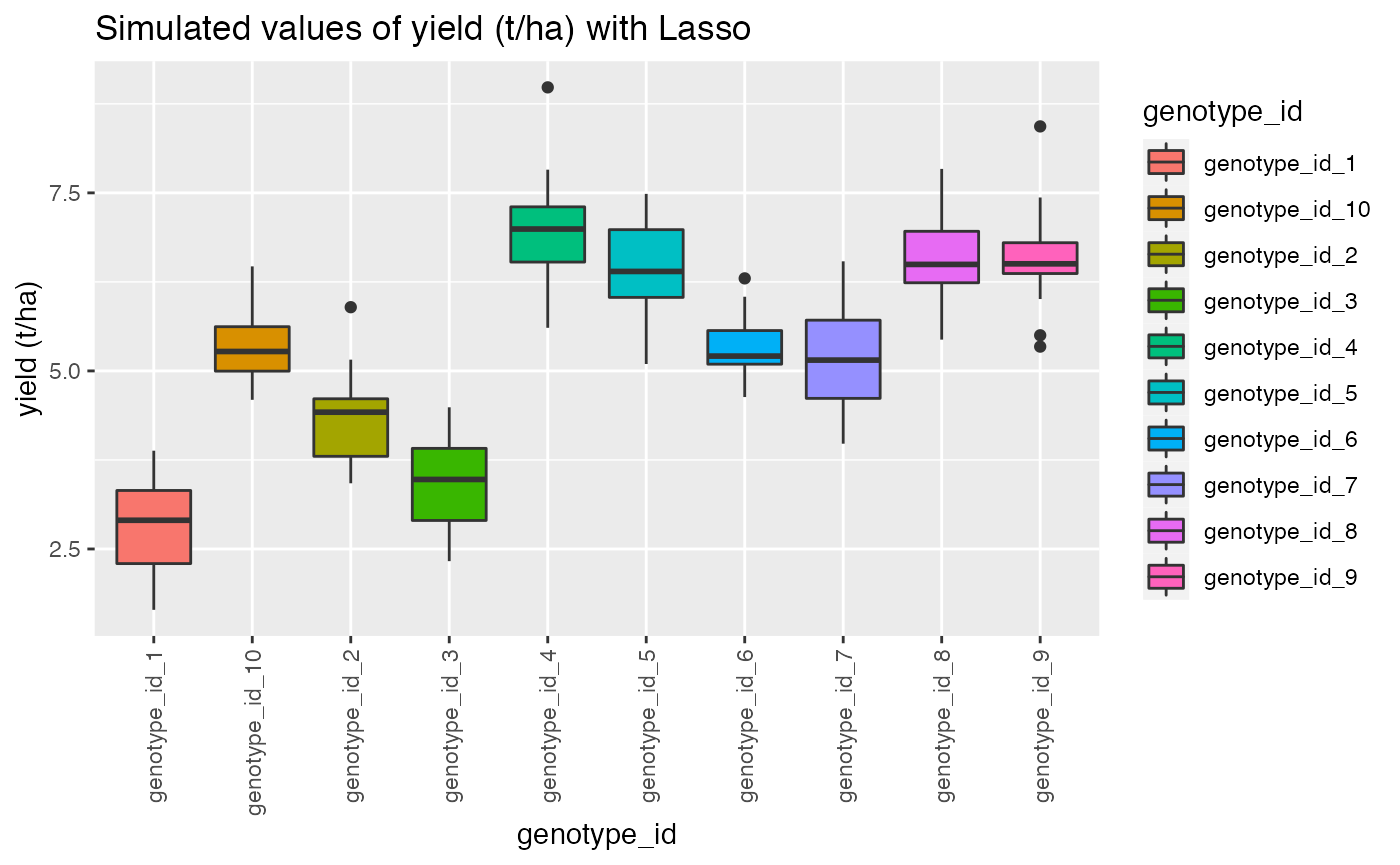
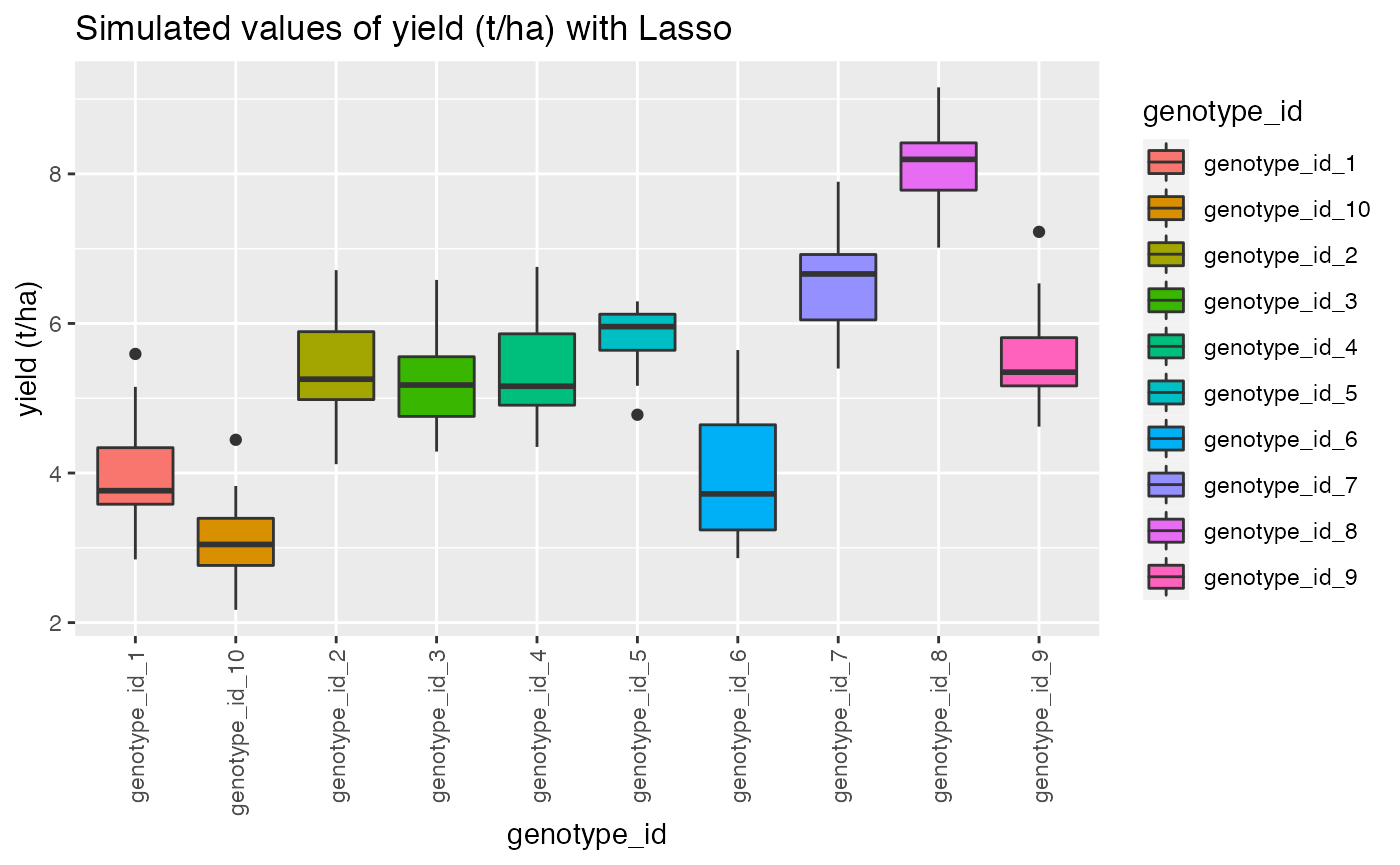
commiting .md

diff --git a/docs/reference/module_coords.html b/docs/reference/module_coords.html
@@ -109,166 +109,166 @@
 <span class="r-out co"><span class="r-pr">#&gt;</span>    i j pos_neg coord_ij   distance       lower     diag        upper</span>
 <span class="r-out co"><span class="r-pr">#&gt;</span> 1  1 1     pos      1_1  1.5707960 non_low_tri     diag non_uper_tri</span>
 <span class="r-out co"><span class="r-pr">#&gt;</span> 2  2 1     neg      2_1 -0.9300003     low_tri non_diag non_uper_tri</span>
-<span class="r-out co"><span class="r-pr">#&gt;</span> 3  3 1     pos      3_1  0.1280000     low_tri non_diag non_uper_tri</span>
-<span class="r-out co"><span class="r-pr">#&gt;</span> 4  4 1     pos      4_1  0.7170000     low_tri non_diag non_uper_tri</span>
-<span class="r-out co"><span class="r-pr">#&gt;</span> 5  5 1     pos      5_1  1.3800000     low_tri non_diag non_uper_tri</span>
-<span class="r-out co"><span class="r-pr">#&gt;</span> 6  6 1     neg      6_1  4.6625927     low_tri non_diag non_uper_tri</span>
-<span class="r-out co"><span class="r-pr">#&gt;</span> 7  7 1     pos      7_1  0.4460000     low_tri non_diag non_uper_tri</span>
-<span class="r-out co"><span class="r-pr">#&gt;</span> 8  8 1     pos      8_1  0.7140000     low_tri non_diag non_uper_tri</span>
+<span class="r-out co"><span class="r-pr">#&gt;</span> 3  3 1     pos      3_1  1.0680000     low_tri non_diag non_uper_tri</span>
+<span class="r-out co"><span class="r-pr">#&gt;</span> 4  4 1     pos      4_1  0.5490000     low_tri non_diag non_uper_tri</span>
+<span class="r-out co"><span class="r-pr">#&gt;</span> 5  5 1     pos      5_1  0.0680000     low_tri non_diag non_uper_tri</span>
+<span class="r-out co"><span class="r-pr">#&gt;</span> 6  6 1     neg      6_1  4.2845927     low_tri non_diag non_uper_tri</span>
+<span class="r-out co"><span class="r-pr">#&gt;</span> 7  7 1     pos      7_1  0.3640000     low_tri non_diag non_uper_tri</span>
+<span class="r-out co"><span class="r-pr">#&gt;</span> 8  8 1     pos      8_1  0.4470000     low_tri non_diag non_uper_tri</span>
 <span class="r-out co"><span class="r-pr">#&gt;</span> 9  9 1     neg      9_1 -0.8684074     low_tri non_diag non_uper_tri</span>
 <span class="r-out co"><span class="r-pr">#&gt;</span> 10 1 2     neg      1_2 -0.9300003 non_low_tri non_diag     uper_tri</span>
 <span class="r-out co"><span class="r-pr">#&gt;</span> 11 2 2     pos      2_2  1.5707960 non_low_tri     diag non_uper_tri</span>
-<span class="r-out co"><span class="r-pr">#&gt;</span> 12 3 2     neg      3_2  4.1605927     low_tri non_diag non_uper_tri</span>
-<span class="r-out co"><span class="r-pr">#&gt;</span> 13 4 2     pos      4_2  1.4410000     low_tri non_diag non_uper_tri</span>
-<span class="r-out co"><span class="r-pr">#&gt;</span> 14 5 2     pos      5_2  0.6580000     low_tri non_diag non_uper_tri</span>
+<span class="r-out co"><span class="r-pr">#&gt;</span> 12 3 2     neg      3_2  4.1395927     low_tri non_diag non_uper_tri</span>
+<span class="r-out co"><span class="r-pr">#&gt;</span> 13 4 2     pos      4_2  1.3250000     low_tri non_diag non_uper_tri</span>
+<span class="r-out co"><span class="r-pr">#&gt;</span> 14 5 2     pos      5_2  1.2370000     low_tri non_diag non_uper_tri</span>
 <span class="r-out co"><span class="r-pr">#&gt;</span> 15 6 2     neg      6_2 -0.9310004     low_tri non_diag non_uper_tri</span>
-<span class="r-out co"><span class="r-pr">#&gt;</span> 16 7 2     pos      7_2  0.5360000     low_tri non_diag non_uper_tri</span>
-<span class="r-out co"><span class="r-pr">#&gt;</span> 17 8 2     pos      8_2  1.5450000     low_tri non_diag non_uper_tri</span>
-<span class="r-out co"><span class="r-pr">#&gt;</span> 18 9 2     pos      9_2  1.3490000     low_tri non_diag non_uper_tri</span>
-<span class="r-out co"><span class="r-pr">#&gt;</span> 19 1 3     pos      1_3  0.1280000 non_low_tri non_diag     uper_tri</span>
-<span class="r-out co"><span class="r-pr">#&gt;</span> 20 2 3     neg      2_3  4.1605927 non_low_tri non_diag     uper_tri</span>
+<span class="r-out co"><span class="r-pr">#&gt;</span> 16 7 2     pos      7_2  1.5480000     low_tri non_diag non_uper_tri</span>
+<span class="r-out co"><span class="r-pr">#&gt;</span> 17 8 2     pos      8_2  0.7150000     low_tri non_diag non_uper_tri</span>
+<span class="r-out co"><span class="r-pr">#&gt;</span> 18 9 2     pos      9_2  0.2490000     low_tri non_diag non_uper_tri</span>
+<span class="r-out co"><span class="r-pr">#&gt;</span> 19 1 3     pos      1_3  1.0680000 non_low_tri non_diag     uper_tri</span>
+<span class="r-out co"><span class="r-pr">#&gt;</span> 20 2 3     neg      2_3  4.1395927 non_low_tri non_diag     uper_tri</span>
 <span class="r-out co"><span class="r-pr">#&gt;</span> 21 3 3     pos      3_3  1.5707960 non_low_tri     diag non_uper_tri</span>
-<span class="r-out co"><span class="r-pr">#&gt;</span> 22 4 3     pos      4_3  0.5720000     low_tri non_diag non_uper_tri</span>
-<span class="r-out co"><span class="r-pr">#&gt;</span> 23 5 3     pos      5_3  0.7990000     low_tri non_diag non_uper_tri</span>
-<span class="r-out co"><span class="r-pr">#&gt;</span> 24 6 3     pos      6_3  0.4930000     low_tri non_diag non_uper_tri</span>
-<span class="r-out co"><span class="r-pr">#&gt;</span> 25 7 3     pos      7_3  0.5200000     low_tri non_diag non_uper_tri</span>
-<span class="r-out co"><span class="r-pr">#&gt;</span> 26 8 3     pos      8_3  0.0530000     low_tri non_diag non_uper_tri</span>
+<span class="r-out co"><span class="r-pr">#&gt;</span> 22 4 3     pos      4_3  0.7820000     low_tri non_diag non_uper_tri</span>
+<span class="r-out co"><span class="r-pr">#&gt;</span> 23 5 3     pos      5_3  0.7250000     low_tri non_diag non_uper_tri</span>
+<span class="r-out co"><span class="r-pr">#&gt;</span> 24 6 3     pos      6_3  0.7210000     low_tri non_diag non_uper_tri</span>
+<span class="r-out co"><span class="r-pr">#&gt;</span> 25 7 3     pos      7_3  0.3020000     low_tri non_diag non_uper_tri</span>
+<span class="r-out co"><span class="r-pr">#&gt;</span> 26 8 3     pos      8_3  0.1190000     low_tri non_diag non_uper_tri</span>
 <span class="r-out co"><span class="r-pr">#&gt;</span> 27 9 3     pos      9_3  0.5235988     low_tri non_diag non_uper_tri</span>
-<span class="r-out co"><span class="r-pr">#&gt;</span> 28 1 4     pos      1_4  0.7170000 non_low_tri non_diag     uper_tri</span>
-<span class="r-out co"><span class="r-pr">#&gt;</span> 29 2 4     pos      2_4  1.4410000 non_low_tri non_diag     uper_tri</span>
-<span class="r-out co"><span class="r-pr">#&gt;</span> 30 3 4     pos      3_4  0.5720000 non_low_tri non_diag     uper_tri</span>
+<span class="r-out co"><span class="r-pr">#&gt;</span> 28 1 4     pos      1_4  0.5490000 non_low_tri non_diag     uper_tri</span>
+<span class="r-out co"><span class="r-pr">#&gt;</span> 29 2 4     pos      2_4  1.3250000 non_low_tri non_diag     uper_tri</span>
+<span class="r-out co"><span class="r-pr">#&gt;</span> 30 3 4     pos      3_4  0.7820000 non_low_tri non_diag     uper_tri</span>
 <span class="r-out co"><span class="r-pr">#&gt;</span> 31 4 4     pos      4_4  1.5707960 non_low_tri     diag non_uper_tri</span>
 <span class="r-out co"><span class="r-pr">#&gt;</span> 32 5 4     pos      5_4  0.6435011     low_tri non_diag non_uper_tri</span>
-<span class="r-out co"><span class="r-pr">#&gt;</span> 33 6 4     pos      6_4  1.5240000     low_tri non_diag non_uper_tri</span>
-<span class="r-out co"><span class="r-pr">#&gt;</span> 34 7 4     pos      7_4  0.8940000     low_tri non_diag non_uper_tri</span>
-<span class="r-out co"><span class="r-pr">#&gt;</span> 35 8 4     pos      8_4  0.2000000     low_tri non_diag non_uper_tri</span>
-<span class="r-out co"><span class="r-pr">#&gt;</span> 36 9 4     pos      9_4  0.3660000     low_tri non_diag non_uper_tri</span>
-<span class="r-out co"><span class="r-pr">#&gt;</span> 37 1 5     pos      1_5  1.3800000 non_low_tri non_diag     uper_tri</span>
-<span class="r-out co"><span class="r-pr">#&gt;</span> 38 2 5     pos      2_5  0.6580000 non_low_tri non_diag     uper_tri</span>
-<span class="r-out co"><span class="r-pr">#&gt;</span> 39 3 5     pos      3_5  0.7990000 non_low_tri non_diag     uper_tri</span>
+<span class="r-out co"><span class="r-pr">#&gt;</span> 33 6 4     pos      6_4  1.4930000     low_tri non_diag non_uper_tri</span>
+<span class="r-out co"><span class="r-pr">#&gt;</span> 34 7 4     pos      7_4  0.8010000     low_tri non_diag non_uper_tri</span>
+<span class="r-out co"><span class="r-pr">#&gt;</span> 35 8 4     pos      8_4  0.6320000     low_tri non_diag non_uper_tri</span>
+<span class="r-out co"><span class="r-pr">#&gt;</span> 36 9 4     pos      9_4  1.5230000     low_tri non_diag non_uper_tri</span>
+<span class="r-out co"><span class="r-pr">#&gt;</span> 37 1 5     pos      1_5  0.0680000 non_low_tri non_diag     uper_tri</span>
+<span class="r-out co"><span class="r-pr">#&gt;</span> 38 2 5     pos      2_5  1.2370000 non_low_tri non_diag     uper_tri</span>
+<span class="r-out co"><span class="r-pr">#&gt;</span> 39 3 5     pos      3_5  0.7250000 non_low_tri non_diag     uper_tri</span>
 <span class="r-out co"><span class="r-pr">#&gt;</span> 40 4 5     pos      4_5  0.6435011 non_low_tri non_diag     uper_tri</span>
 <span class="r-out co"><span class="r-pr">#&gt;</span> 41 5 5     pos      5_5  1.5707960 non_low_tri     diag non_uper_tri</span>
-<span class="r-out co"><span class="r-pr">#&gt;</span> 42 6 5     pos      6_5  0.4420000     low_tri non_diag non_uper_tri</span>
-<span class="r-out co"><span class="r-pr">#&gt;</span> 43 7 5     pos      7_5  1.4290000     low_tri non_diag non_uper_tri</span>
-<span class="r-out co"><span class="r-pr">#&gt;</span> 44 8 5     pos      8_5  1.1430000     low_tri non_diag non_uper_tri</span>
-<span class="r-out co"><span class="r-pr">#&gt;</span> 45 9 5     pos      9_5  0.3120000     low_tri non_diag non_uper_tri</span>
-<span class="r-out co"><span class="r-pr">#&gt;</span> 46 1 6     neg      1_6  4.6625927 non_low_tri non_diag     uper_tri</span>
+<span class="r-out co"><span class="r-pr">#&gt;</span> 42 6 5     pos      6_5  0.6840000     low_tri non_diag non_uper_tri</span>
+<span class="r-out co"><span class="r-pr">#&gt;</span> 43 7 5     pos      7_5  0.1620000     low_tri non_diag non_uper_tri</span>
+<span class="r-out co"><span class="r-pr">#&gt;</span> 44 8 5     pos      8_5  0.6780000     low_tri non_diag non_uper_tri</span>
+<span class="r-out co"><span class="r-pr">#&gt;</span> 45 9 5     pos      9_5  1.5460000     low_tri non_diag non_uper_tri</span>
+<span class="r-out co"><span class="r-pr">#&gt;</span> 46 1 6     neg      1_6  4.2845927 non_low_tri non_diag     uper_tri</span>
 <span class="r-out co"><span class="r-pr">#&gt;</span> 47 2 6     neg      2_6 -0.9310004 non_low_tri non_diag     uper_tri</span>
-<span class="r-out co"><span class="r-pr">#&gt;</span> 48 3 6     pos      3_6  0.4930000 non_low_tri non_diag     uper_tri</span>
-<span class="r-out co"><span class="r-pr">#&gt;</span> 49 4 6     pos      4_6  1.5240000 non_low_tri non_diag     uper_tri</span>
-<span class="r-out co"><span class="r-pr">#&gt;</span> 50 5 6     pos      5_6  0.4420000 non_low_tri non_diag     uper_tri</span>
+<span class="r-out co"><span class="r-pr">#&gt;</span> 48 3 6     pos      3_6  0.7210000 non_low_tri non_diag     uper_tri</span>
+<span class="r-out co"><span class="r-pr">#&gt;</span> 49 4 6     pos      4_6  1.4930000 non_low_tri non_diag     uper_tri</span>
+<span class="r-out co"><span class="r-pr">#&gt;</span> 50 5 6     pos      5_6  0.6840000 non_low_tri non_diag     uper_tri</span>
 <span class="r-out co"><span class="r-pr">#&gt;</span> 51 6 6     pos      6_6  1.5707960 non_low_tri     diag non_uper_tri</span>
-<span class="r-out co"><span class="r-pr">#&gt;</span> 52 7 6     pos      7_6  0.1440000     low_tri non_diag non_uper_tri</span>
+<span class="r-out co"><span class="r-pr">#&gt;</span> 52 7 6     pos      7_6  1.2820000     low_tri non_diag non_uper_tri</span>
 <span class="r-out co"><span class="r-pr">#&gt;</span> 53 8 6     pos      8_6  1.1197695     low_tri non_diag non_uper_tri</span>
-<span class="r-out co"><span class="r-pr">#&gt;</span> 54 9 6     pos      9_6  0.6420000     low_tri non_diag non_uper_tri</span>
-<span class="r-out co"><span class="r-pr">#&gt;</span> 55 1 7     pos      1_7  0.4460000 non_low_tri non_diag     uper_tri</span>
-<span class="r-out co"><span class="r-pr">#&gt;</span> 56 2 7     pos      2_7  0.5360000 non_low_tri non_diag     uper_tri</span>
-<span class="r-out co"><span class="r-pr">#&gt;</span> 57 3 7     pos      3_7  0.5200000 non_low_tri non_diag     uper_tri</span>
-<span class="r-out co"><span class="r-pr">#&gt;</span> 58 4 7     pos      4_7  0.8940000 non_low_tri non_diag     uper_tri</span>
-<span class="r-out co"><span class="r-pr">#&gt;</span> 59 5 7     pos      5_7  1.4290000 non_low_tri non_diag     uper_tri</span>
-<span class="r-out co"><span class="r-pr">#&gt;</span> 60 6 7     pos      6_7  0.1440000 non_low_tri non_diag     uper_tri</span>
+<span class="r-out co"><span class="r-pr">#&gt;</span> 54 9 6     pos      9_6  0.6640000     low_tri non_diag non_uper_tri</span>
+<span class="r-out co"><span class="r-pr">#&gt;</span> 55 1 7     pos      1_7  0.3640000 non_low_tri non_diag     uper_tri</span>
+<span class="r-out co"><span class="r-pr">#&gt;</span> 56 2 7     pos      2_7  1.5480000 non_low_tri non_diag     uper_tri</span>
+<span class="r-out co"><span class="r-pr">#&gt;</span> 57 3 7     pos      3_7  0.3020000 non_low_tri non_diag     uper_tri</span>
+<span class="r-out co"><span class="r-pr">#&gt;</span> 58 4 7     pos      4_7  0.8010000 non_low_tri non_diag     uper_tri</span>
+<span class="r-out co"><span class="r-pr">#&gt;</span> 59 5 7     pos      5_7  0.1620000 non_low_tri non_diag     uper_tri</span>
+<span class="r-out co"><span class="r-pr">#&gt;</span> 60 6 7     pos      6_7  1.2820000 non_low_tri non_diag     uper_tri</span>
 <span class="r-out co"><span class="r-pr">#&gt;</span> 61 7 7     pos      7_7  1.5707960 non_low_tri     diag non_uper_tri</span>
-<span class="r-out co"><span class="r-pr">#&gt;</span> 62 8 7     pos      8_7  0.8930000     low_tri non_diag non_uper_tri</span>
-<span class="r-out co"><span class="r-pr">#&gt;</span> 63 9 7     pos      9_7  0.6010000     low_tri non_diag non_uper_tri</span>
-<span class="r-out co"><span class="r-pr">#&gt;</span> 64 1 8     pos      1_8  0.7140000 non_low_tri non_diag     uper_tri</span>
-<span class="r-out co"><span class="r-pr">#&gt;</span> 65 2 8     pos      2_8  1.5450000 non_low_tri non_diag     uper_tri</span>
-<span class="r-out co"><span class="r-pr">#&gt;</span> 66 3 8     pos      3_8  0.0530000 non_low_tri non_diag     uper_tri</span>
-<span class="r-out co"><span class="r-pr">#&gt;</span> 67 4 8     pos      4_8  0.2000000 non_low_tri non_diag     uper_tri</span>
-<span class="r-out co"><span class="r-pr">#&gt;</span> 68 5 8     pos      5_8  1.1430000 non_low_tri non_diag     uper_tri</span>
+<span class="r-out co"><span class="r-pr">#&gt;</span> 62 8 7     pos      8_7  1.3160000     low_tri non_diag non_uper_tri</span>
+<span class="r-out co"><span class="r-pr">#&gt;</span> 63 9 7     pos      9_7  0.8950000     low_tri non_diag non_uper_tri</span>
+<span class="r-out co"><span class="r-pr">#&gt;</span> 64 1 8     pos      1_8  0.4470000 non_low_tri non_diag     uper_tri</span>
+<span class="r-out co"><span class="r-pr">#&gt;</span> 65 2 8     pos      2_8  0.7150000 non_low_tri non_diag     uper_tri</span>
+<span class="r-out co"><span class="r-pr">#&gt;</span> 66 3 8     pos      3_8  0.1190000 non_low_tri non_diag     uper_tri</span>
+<span class="r-out co"><span class="r-pr">#&gt;</span> 67 4 8     pos      4_8  0.6320000 non_low_tri non_diag     uper_tri</span>
+<span class="r-out co"><span class="r-pr">#&gt;</span> 68 5 8     pos      5_8  0.6780000 non_low_tri non_diag     uper_tri</span>
 <span class="r-out co"><span class="r-pr">#&gt;</span> 69 6 8     pos      6_8  1.1197695 non_low_tri non_diag     uper_tri</span>
-<span class="r-out co"><span class="r-pr">#&gt;</span> 70 7 8     pos      7_8  0.8930000 non_low_tri non_diag     uper_tri</span>
+<span class="r-out co"><span class="r-pr">#&gt;</span> 70 7 8     pos      7_8  1.3160000 non_low_tri non_diag     uper_tri</span>
 <span class="r-out co"><span class="r-pr">#&gt;</span> 71 8 8     pos      8_8  1.5707960 non_low_tri     diag non_uper_tri</span>
-<span class="r-out co"><span class="r-pr">#&gt;</span> 72 9 8     pos      9_8  0.4280000     low_tri non_diag non_uper_tri</span>
+<span class="r-out co"><span class="r-pr">#&gt;</span> 72 9 8     pos      9_8  1.3120000     low_tri non_diag non_uper_tri</span>
 <span class="r-out co"><span class="r-pr">#&gt;</span> 73 1 9     neg      1_9 -0.8684074 non_low_tri non_diag     uper_tri</span>
-<span class="r-out co"><span class="r-pr">#&gt;</span> 74 2 9     pos      2_9  1.3490000 non_low_tri non_diag     uper_tri</span>
+<span class="r-out co"><span class="r-pr">#&gt;</span> 74 2 9     pos      2_9  0.2490000 non_low_tri non_diag     uper_tri</span>
 <span class="r-out co"><span class="r-pr">#&gt;</span> 75 3 9     pos      3_9  0.5235988 non_low_tri non_diag     uper_tri</span>
-<span class="r-out co"><span class="r-pr">#&gt;</span> 76 4 9     pos      4_9  0.3660000 non_low_tri non_diag     uper_tri</span>
-<span class="r-out co"><span class="r-pr">#&gt;</span> 77 5 9     pos      5_9  0.3120000 non_low_tri non_diag     uper_tri</span>
-<span class="r-out co"><span class="r-pr">#&gt;</span> 78 6 9     pos      6_9  0.6420000 non_low_tri non_diag     uper_tri</span>
-<span class="r-out co"><span class="r-pr">#&gt;</span> 79 7 9     pos      7_9  0.6010000 non_low_tri non_diag     uper_tri</span>
-<span class="r-out co"><span class="r-pr">#&gt;</span> 80 8 9     pos      8_9  0.4280000 non_low_tri non_diag     uper_tri</span>
+<span class="r-out co"><span class="r-pr">#&gt;</span> 76 4 9     pos      4_9  1.5230000 non_low_tri non_diag     uper_tri</span>
+<span class="r-out co"><span class="r-pr">#&gt;</span> 77 5 9     pos      5_9  1.5460000 non_low_tri non_diag     uper_tri</span>
+<span class="r-out co"><span class="r-pr">#&gt;</span> 78 6 9     pos      6_9  0.6640000 non_low_tri non_diag     uper_tri</span>
+<span class="r-out co"><span class="r-pr">#&gt;</span> 79 7 9     pos      7_9  0.8950000 non_low_tri non_diag     uper_tri</span>
+<span class="r-out co"><span class="r-pr">#&gt;</span> 80 8 9     pos      8_9  1.3120000 non_low_tri non_diag     uper_tri</span>
 <span class="r-out co"><span class="r-pr">#&gt;</span> 81 9 9     pos      9_9  1.5707960 non_low_tri     diag non_uper_tri</span>
 <span class="r-out co"><span class="r-pr">#&gt;</span>    known_priori         sin</span>
 <span class="r-out co"><span class="r-pr">#&gt;</span> 1      not_know  1.00000000</span>
 <span class="r-out co"><span class="r-pr">#&gt;</span> 2         known -0.80162012</span>
-<span class="r-out co"><span class="r-pr">#&gt;</span> 3      not_know  0.12765076</span>
-<span class="r-out co"><span class="r-pr">#&gt;</span> 4      not_know  0.65712629</span>
-<span class="r-out co"><span class="r-pr">#&gt;</span> 5      not_know  0.98185353</span>
-<span class="r-out co"><span class="r-pr">#&gt;</span> 6      not_know -0.99876042</span>
-<span class="r-out co"><span class="r-pr">#&gt;</span> 7      not_know  0.43136028</span>
-<span class="r-out co"><span class="r-pr">#&gt;</span> 8      not_know  0.65486200</span>
+<span class="r-out co"><span class="r-pr">#&gt;</span> 3      not_know  0.87623850</span>
+<span class="r-out co"><span class="r-pr">#&gt;</span> 4      not_know  0.52183444</span>
+<span class="r-out co"><span class="r-pr">#&gt;</span> 5      not_know  0.06794761</span>
+<span class="r-out co"><span class="r-pr">#&gt;</span> 6      not_know -0.90988219</span>
+<span class="r-out co"><span class="r-pr">#&gt;</span> 7      not_know  0.35601499</span>
+<span class="r-out co"><span class="r-pr">#&gt;</span> 8      not_know  0.43226224</span>
 <span class="r-out co"><span class="r-pr">#&gt;</span> 9         known -0.76330102</span>
 <span class="r-out co"><span class="r-pr">#&gt;</span> 10        known -0.80162012</span>
 <span class="r-out co"><span class="r-pr">#&gt;</span> 11     not_know  1.00000000</span>
-<span class="r-out co"><span class="r-pr">#&gt;</span> 12     not_know -0.85158423</span>
-<span class="r-out co"><span class="r-pr">#&gt;</span> 13     not_know  0.99158828</span>
-<span class="r-out co"><span class="r-pr">#&gt;</span> 14     not_know  0.61153564</span>
+<span class="r-out co"><span class="r-pr">#&gt;</span> 12     not_know -0.84038870</span>
+<span class="r-out co"><span class="r-pr">#&gt;</span> 13     not_know  0.96994386</span>
+<span class="r-out co"><span class="r-pr">#&gt;</span> 14     not_know  0.94480536</span>
 <span class="r-out co"><span class="r-pr">#&gt;</span> 15        known -0.80221761</span>
-<span class="r-out co"><span class="r-pr">#&gt;</span> 16     not_know  0.51070105</span>
-<span class="r-out co"><span class="r-pr">#&gt;</span> 17     not_know  0.99966729</span>
-<span class="r-out co"><span class="r-pr">#&gt;</span> 18     not_know  0.97550386</span>
-<span class="r-out co"><span class="r-pr">#&gt;</span> 19     not_know  0.12765076</span>
-<span class="r-out co"><span class="r-pr">#&gt;</span> 20     not_know -0.85158423</span>
+<span class="r-out co"><span class="r-pr">#&gt;</span> 16     not_know  0.99974017</span>
+<span class="r-out co"><span class="r-pr">#&gt;</span> 17     not_know  0.65561742</span>
+<span class="r-out co"><span class="r-pr">#&gt;</span> 18     not_know  0.24643492</span>
+<span class="r-out co"><span class="r-pr">#&gt;</span> 19     not_know  0.87623850</span>
+<span class="r-out co"><span class="r-pr">#&gt;</span> 20     not_know -0.84038870</span>
 <span class="r-out co"><span class="r-pr">#&gt;</span> 21     not_know  1.00000000</span>
-<span class="r-out co"><span class="r-pr">#&gt;</span> 22     not_know  0.54131477</span>
-<span class="r-out co"><span class="r-pr">#&gt;</span> 23     not_know  0.71665903</span>
-<span class="r-out co"><span class="r-pr">#&gt;</span> 24     not_know  0.47327076</span>
-<span class="r-out co"><span class="r-pr">#&gt;</span> 25     not_know  0.49688014</span>
-<span class="r-out co"><span class="r-pr">#&gt;</span> 26     not_know  0.05297519</span>
+<span class="r-out co"><span class="r-pr">#&gt;</span> 22     not_know  0.70469984</span>
+<span class="r-out co"><span class="r-pr">#&gt;</span> 23     not_know  0.66313544</span>
+<span class="r-out co"><span class="r-pr">#&gt;</span> 24     not_know  0.66013615</span>
+<span class="r-out co"><span class="r-pr">#&gt;</span> 25     not_know  0.29743029</span>
+<span class="r-out co"><span class="r-pr">#&gt;</span> 26     not_know  0.11871934</span>
 <span class="r-out co"><span class="r-pr">#&gt;</span> 27        known  0.50000002</span>
-<span class="r-out co"><span class="r-pr">#&gt;</span> 28     not_know  0.65712629</span>
-<span class="r-out co"><span class="r-pr">#&gt;</span> 29     not_know  0.99158828</span>
-<span class="r-out co"><span class="r-pr">#&gt;</span> 30     not_know  0.54131477</span>
+<span class="r-out co"><span class="r-pr">#&gt;</span> 28     not_know  0.52183444</span>
+<span class="r-out co"><span class="r-pr">#&gt;</span> 29     not_know  0.96994386</span>
+<span class="r-out co"><span class="r-pr">#&gt;</span> 30     not_know  0.70469984</span>
 <span class="r-out co"><span class="r-pr">#&gt;</span> 31     not_know  1.00000000</span>
 <span class="r-out co"><span class="r-pr">#&gt;</span> 32        known  0.59999999</span>
-<span class="r-out co"><span class="r-pr">#&gt;</span> 33     not_know  0.99890525</span>
-<span class="r-out co"><span class="r-pr">#&gt;</span> 34     not_know  0.77958317</span>
-<span class="r-out co"><span class="r-pr">#&gt;</span> 35     not_know  0.19866933</span>
-<span class="r-out co"><span class="r-pr">#&gt;</span> 36     not_know  0.35788324</span>
-<span class="r-out co"><span class="r-pr">#&gt;</span> 37     not_know  0.98185353</span>
-<span class="r-out co"><span class="r-pr">#&gt;</span> 38     not_know  0.61153564</span>
-<span class="r-out co"><span class="r-pr">#&gt;</span> 39     not_know  0.71665903</span>
+<span class="r-out co"><span class="r-pr">#&gt;</span> 33     not_know  0.99697539</span>
+<span class="r-out co"><span class="r-pr">#&gt;</span> 34     not_know  0.71805244</span>
+<span class="r-out co"><span class="r-pr">#&gt;</span> 35     not_know  0.59075963</span>
+<span class="r-out co"><span class="r-pr">#&gt;</span> 36     not_know  0.99885797</span>
+<span class="r-out co"><span class="r-pr">#&gt;</span> 37     not_know  0.06794761</span>
+<span class="r-out co"><span class="r-pr">#&gt;</span> 38     not_know  0.94480536</span>
+<span class="r-out co"><span class="r-pr">#&gt;</span> 39     not_know  0.66313544</span>
 <span class="r-out co"><span class="r-pr">#&gt;</span> 40        known  0.59999999</span>
 <span class="r-out co"><span class="r-pr">#&gt;</span> 41     not_know  1.00000000</span>
-<span class="r-out co"><span class="r-pr">#&gt;</span> 42     not_know  0.42774812</span>
-<span class="r-out co"><span class="r-pr">#&gt;</span> 43     not_know  0.98996373</span>
-<span class="r-out co"><span class="r-pr">#&gt;</span> 44     not_know  0.90988219</span>
-<span class="r-out co"><span class="r-pr">#&gt;</span> 45     not_know  0.30696269</span>
-<span class="r-out co"><span class="r-pr">#&gt;</span> 46     not_know -0.99876042</span>
+<span class="r-out co"><span class="r-pr">#&gt;</span> 42     not_know  0.63189828</span>
+<span class="r-out co"><span class="r-pr">#&gt;</span> 43     not_know  0.16129234</span>
+<span class="r-out co"><span class="r-pr">#&gt;</span> 44     not_know  0.62723662</span>
+<span class="r-out co"><span class="r-pr">#&gt;</span> 45     not_know  0.99969259</span>
+<span class="r-out co"><span class="r-pr">#&gt;</span> 46     not_know -0.90988219</span>
 <span class="r-out co"><span class="r-pr">#&gt;</span> 47        known -0.80221761</span>
-<span class="r-out co"><span class="r-pr">#&gt;</span> 48     not_know  0.47327076</span>
-<span class="r-out co"><span class="r-pr">#&gt;</span> 49     not_know  0.99890525</span>
-<span class="r-out co"><span class="r-pr">#&gt;</span> 50     not_know  0.42774812</span>
+<span class="r-out co"><span class="r-pr">#&gt;</span> 48     not_know  0.66013615</span>
+<span class="r-out co"><span class="r-pr">#&gt;</span> 49     not_know  0.99697539</span>
+<span class="r-out co"><span class="r-pr">#&gt;</span> 50     not_know  0.63189828</span>
 <span class="r-out co"><span class="r-pr">#&gt;</span> 51     not_know  1.00000000</span>
-<span class="r-out co"><span class="r-pr">#&gt;</span> 52     not_know  0.14350285</span>
+<span class="r-out co"><span class="r-pr">#&gt;</span> 52     not_know  0.95858737</span>
 <span class="r-out co"><span class="r-pr">#&gt;</span> 53        known  0.89999999</span>
-<span class="r-out co"><span class="r-pr">#&gt;</span> 54     not_know  0.59879844</span>
-<span class="r-out co"><span class="r-pr">#&gt;</span> 55     not_know  0.43136028</span>
-<span class="r-out co"><span class="r-pr">#&gt;</span> 56     not_know  0.51070105</span>
-<span class="r-out co"><span class="r-pr">#&gt;</span> 57     not_know  0.49688014</span>
-<span class="r-out co"><span class="r-pr">#&gt;</span> 58     not_know  0.77958317</span>
-<span class="r-out co"><span class="r-pr">#&gt;</span> 59     not_know  0.98996373</span>
-<span class="r-out co"><span class="r-pr">#&gt;</span> 60     not_know  0.14350285</span>
+<span class="r-out co"><span class="r-pr">#&gt;</span> 54     not_know  0.61627191</span>
+<span class="r-out co"><span class="r-pr">#&gt;</span> 55     not_know  0.35601499</span>
+<span class="r-out co"><span class="r-pr">#&gt;</span> 56     not_know  0.99974017</span>
+<span class="r-out co"><span class="r-pr">#&gt;</span> 57     not_know  0.29743029</span>
+<span class="r-out co"><span class="r-pr">#&gt;</span> 58     not_know  0.71805244</span>
+<span class="r-out co"><span class="r-pr">#&gt;</span> 59     not_know  0.16129234</span>
+<span class="r-out co"><span class="r-pr">#&gt;</span> 60     not_know  0.95858737</span>
 <span class="r-out co"><span class="r-pr">#&gt;</span> 61     not_know  1.00000000</span>
-<span class="r-out co"><span class="r-pr">#&gt;</span> 62     not_know  0.77895648</span>
-<span class="r-out co"><span class="r-pr">#&gt;</span> 63     not_know  0.56546753</span>
-<span class="r-out co"><span class="r-pr">#&gt;</span> 64     not_know  0.65486200</span>
-<span class="r-out co"><span class="r-pr">#&gt;</span> 65     not_know  0.99966729</span>
-<span class="r-out co"><span class="r-pr">#&gt;</span> 66     not_know  0.05297519</span>
-<span class="r-out co"><span class="r-pr">#&gt;</span> 67     not_know  0.19866933</span>
-<span class="r-out co"><span class="r-pr">#&gt;</span> 68     not_know  0.90988219</span>
+<span class="r-out co"><span class="r-pr">#&gt;</span> 62     not_know  0.96771465</span>
+<span class="r-out co"><span class="r-pr">#&gt;</span> 63     not_know  0.78020908</span>
+<span class="r-out co"><span class="r-pr">#&gt;</span> 64     not_know  0.43226224</span>
+<span class="r-out co"><span class="r-pr">#&gt;</span> 65     not_know  0.65561742</span>
+<span class="r-out co"><span class="r-pr">#&gt;</span> 66     not_know  0.11871934</span>
+<span class="r-out co"><span class="r-pr">#&gt;</span> 67     not_know  0.59075963</span>
+<span class="r-out co"><span class="r-pr">#&gt;</span> 68     not_know  0.62723662</span>
 <span class="r-out co"><span class="r-pr">#&gt;</span> 69        known  0.89999999</span>
-<span class="r-out co"><span class="r-pr">#&gt;</span> 70     not_know  0.77895648</span>
+<span class="r-out co"><span class="r-pr">#&gt;</span> 70     not_know  0.96771465</span>
 <span class="r-out co"><span class="r-pr">#&gt;</span> 71     not_know  1.00000000</span>
-<span class="r-out co"><span class="r-pr">#&gt;</span> 72     not_know  0.41505204</span>
+<span class="r-out co"><span class="r-pr">#&gt;</span> 72     not_know  0.96669872</span>
 <span class="r-out co"><span class="r-pr">#&gt;</span> 73        known -0.76330102</span>
-<span class="r-out co"><span class="r-pr">#&gt;</span> 74     not_know  0.97550386</span>
+<span class="r-out co"><span class="r-pr">#&gt;</span> 74     not_know  0.24643492</span>
 <span class="r-out co"><span class="r-pr">#&gt;</span> 75        known  0.50000002</span>
-<span class="r-out co"><span class="r-pr">#&gt;</span> 76     not_know  0.35788324</span>
-<span class="r-out co"><span class="r-pr">#&gt;</span> 77     not_know  0.30696269</span>
-<span class="r-out co"><span class="r-pr">#&gt;</span> 78     not_know  0.59879844</span>
-<span class="r-out co"><span class="r-pr">#&gt;</span> 79     not_know  0.56546753</span>
-<span class="r-out co"><span class="r-pr">#&gt;</span> 80     not_know  0.41505204</span>
+<span class="r-out co"><span class="r-pr">#&gt;</span> 76     not_know  0.99885797</span>
+<span class="r-out co"><span class="r-pr">#&gt;</span> 77     not_know  0.99969259</span>
+<span class="r-out co"><span class="r-pr">#&gt;</span> 78     not_know  0.61627191</span>
+<span class="r-out co"><span class="r-pr">#&gt;</span> 79     not_know  0.78020908</span>
+<span class="r-out co"><span class="r-pr">#&gt;</span> 80     not_know  0.96669872</span>
 <span class="r-out co"><span class="r-pr">#&gt;</span> 81     not_know  1.00000000</span>
 <span class="r-out co"><span class="r-pr">#&gt;</span> </span>
 <span class="r-out co"><span class="r-pr">#&gt;</span> $which_negative</span>

diff --git a/docs/articles/pkg_flow.html b/docs/articles/pkg_flow.html
@@ -209,13 +209,13 @@
 <span>levels_inc_all<span class="op">=</span><span class="fu"><a href="https://rdrr.io/r/base/list.html" class="external-link">list</a></span><span class="op">(</span>siteid<span class="op">=</span><span class="fu"><a href="https://rdrr.io/r/base/c.html" class="external-link">c</a></span><span class="op">(</span><span class="fl">1</span><span class="op">:</span><span class="fl">16</span><span class="op">)</span>,yes_no_sample<span class="op">=</span><span class="fu"><a href="https://rdrr.io/r/base/c.html" class="external-link">c</a></span><span class="op">(</span><span class="fl">1</span><span class="op">:</span><span class="fl">2</span><span class="op">)</span><span class="op">)</span>,                   continuous_to_cut<span class="op">=</span><span class="va">sim_data_cop</span><span class="op">$</span><span class="va">simulated</span></span>
 <span>                    <span class="op">)</span></span>
 <span><span class="fu"><a href="https://rdrr.io/r/utils/head.html" class="external-link">head</a></span><span class="op">(</span><span class="va">cut_data_soil</span><span class="op">)</span></span>
-<span><span class="co">#&gt;             DranaigeClass               LithologyValueClass LithologyValueGroup</span></span>
-<span><span class="co">#&gt; 1 Moderately well drained Sedimentary rock (unconsolidated)                  UU</span></span>
-<span><span class="co">#&gt; 2 Moderately well drained Sedimentary rock (unconsolidated)                  SC</span></span>
-<span><span class="co">#&gt; 3            Well drained                      Igneous rock                  MU</span></span>
-<span><span class="co">#&gt; 4          Poorly drained                  Metamorphic rock                  IU</span></span>
-<span><span class="co">#&gt; 5          Poorly drained Sedimentary rock (unconsolidated)                  UF</span></span>
-<span><span class="co">#&gt; 6       Very poorly drain                  Metamorphic rock                  UR</span></span>
+<span><span class="co">#&gt;         DranaigeClass               LithologyValueClass LithologyValueGroup</span></span>
+<span><span class="co">#&gt; 1        Well drained   Sedimentary rock (consolidated)                  UC</span></span>
+<span><span class="co">#&gt; 2        Well drained                      Igneous rock                  UC</span></span>
+<span><span class="co">#&gt; 3 Excessively drained   Sedimentary rock (consolidated)                  UU</span></span>
+<span><span class="co">#&gt; 4 Imperfectly drained Sedimentary rock (unconsolidated)                  MA</span></span>
+<span><span class="co">#&gt; 5 Excessively drained   Sedimentary rock (consolidated)                  UC</span></span>
+<span><span class="co">#&gt; 6      Poorly drained                      Igneous rock                  IA</span></span>
 <span><span class="co">#&gt;     siteid   yes_no_sample</span></span>
 <span><span class="co">#&gt; 1 siteid_1 yes_no_sample_1</span></span>
 <span><span class="co">#&gt; 2 siteid_2 yes_no_sample_2</span></span>
@@ -283,8 +283,6 @@
 <span>                          mar_cont_dists<span class="op">=</span><span class="fu"><a href="https://rdrr.io/r/base/c.html" class="external-link">c</a></span><span class="op">(</span><span class="op">)</span>,</span>
 <span>         </span>
 <span>           var_names<span class="op">=</span><span class="fu"><a href="https://rdrr.io/r/base/colnames.html" class="external-link">colnames</a></span><span class="op">(</span><span class="va">gen_att</span><span class="op">)</span><span class="op">)</span></span>
-<span><span class="co">#&gt; Warning in rmvnorm(n, sigma = getSigma(copula)): sigma is numerically not</span></span>
-<span><span class="co">#&gt; positive semidefinite</span></span>
 <span></span>
 <span><span class="va">cut_data_gen_i</span><span class="op">=</span><span class="fu"><a href="../reference/cut_levels.html">cut_levels</a></span><span class="op">(</span>categorical<span class="op">=</span><span class="va">gen_att</span>,</span>
 <span>                    cat_inc_all_levels<span class="op">=</span><span class="fu"><a href="https://rdrr.io/r/base/c.html" class="external-link">c</a></span><span class="op">(</span><span class="st">"genotype_id"</span><span class="op">)</span>,</span>
@@ -295,9 +293,9 @@
 <span><span class="co">## for each of n_genotypes</span></span>
 <span><span class="fu"><a href="https://rdrr.io/r/utils/head.html" class="external-link">head</a></span><span class="op">(</span><span class="va">cut_data_gen_i</span><span class="op">[</span><span class="fl">1</span><span class="op">:</span><span class="fl">3</span>,<span class="fu"><a href="https://rdrr.io/r/base/c.html" class="external-link">c</a></span><span class="op">(</span><span class="fl">1</span>,<span class="fl">4</span>,<span class="fl">101</span><span class="op">)</span><span class="op">]</span><span class="op">)</span></span>
 <span><span class="co">#&gt;   trait_1 trait_4   genotype_id</span></span>
-<span><span class="co">#&gt; 1       2       0 genotype_id_1</span></span>
-<span><span class="co">#&gt; 2       2       2 genotype_id_2</span></span>
-<span><span class="co">#&gt; 3       2       1 genotype_id_3</span></span>
+<span><span class="co">#&gt; 1       1       2 genotype_id_1</span></span>
+<span><span class="co">#&gt; 2       1       2 genotype_id_2</span></span>
+<span><span class="co">#&gt; 3       0       2 genotype_id_3</span></span>
 <span><span class="co">## the data will repeat across n_sites environments.</span></span>
 <span><span class="va">n_sites</span><span class="op">=</span><span class="fu"><a href="https://rdrr.io/r/base/length.html" class="external-link">length</a></span><span class="op">(</span><span class="fu"><a href="https://rdrr.io/r/stats/na.fail.html" class="external-link">na.omit</a></span><span class="op">(</span><span class="va">soil_att_ex</span><span class="op">$</span><span class="va">siteid</span><span class="op">)</span><span class="op">)</span></span>
 <span><span class="va">sites_id</span><span class="op">=</span><span class="fu"><a href="https://rdrr.io/r/base/sprintf.html" class="external-link">sprintf</a></span><span class="op">(</span><span class="st">"siteid_%d"</span>,<span class="fu"><a href="https://rdrr.io/r/base/seq.html" class="external-link">seq</a></span><span class="op">(</span><span class="fl">1</span><span class="op">:</span><span class="va">n_sites</span><span class="op">)</span><span class="op">)</span></span>
@@ -307,14 +305,14 @@
 <span><span class="va">abemus_genomics</span><span class="op">$</span><span class="va">siteid</span><span class="op">=</span><span class="va">gens_site_id</span></span>
 <span><span class="fu"><a href="https://rdrr.io/r/utils/head.html" class="external-link">head</a></span><span class="op">(</span><span class="va">abemus_genomics</span><span class="op">[</span><span class="fl">1</span><span class="op">:</span><span class="fl">3</span>,<span class="fu"><a href="https://rdrr.io/r/base/c.html" class="external-link">c</a></span><span class="op">(</span><span class="fl">1</span>,<span class="fl">10</span>,<span class="fl">101</span>,<span class="fl">102</span><span class="op">)</span><span class="op">]</span><span class="op">)</span>  </span>
 <span><span class="co">#&gt;   trait_1 trait_10   genotype_id   siteid</span></span>
-<span><span class="co">#&gt; 1       2        2 genotype_id_1 siteid_1</span></span>
-<span><span class="co">#&gt; 2       2        1 genotype_id_2 siteid_1</span></span>
-<span><span class="co">#&gt; 3       2        2 genotype_id_3 siteid_1</span></span>
+<span><span class="co">#&gt; 1       1        2 genotype_id_1 siteid_1</span></span>
+<span><span class="co">#&gt; 2       1        1 genotype_id_2 siteid_1</span></span>
+<span><span class="co">#&gt; 3       0        0 genotype_id_3 siteid_1</span></span>
 <span><span class="fu"><a href="https://rdrr.io/r/utils/head.html" class="external-link">tail</a></span><span class="op">(</span><span class="va">abemus_genomics</span><span class="op">[</span><span class="fl">1</span><span class="op">:</span><span class="fl">3</span>,<span class="fu"><a href="https://rdrr.io/r/base/c.html" class="external-link">c</a></span><span class="op">(</span><span class="fl">1</span>,<span class="fl">10</span>,<span class="fl">101</span>,<span class="fl">102</span><span class="op">)</span><span class="op">]</span><span class="op">)</span></span>
 <span><span class="co">#&gt;   trait_1 trait_10   genotype_id   siteid</span></span>
-<span><span class="co">#&gt; 1       2        2 genotype_id_1 siteid_1</span></span>
-<span><span class="co">#&gt; 2       2        1 genotype_id_2 siteid_1</span></span>
-<span><span class="co">#&gt; 3       2        2 genotype_id_3 siteid_1</span></span></code></pre></div>
+<span><span class="co">#&gt; 1       1        2 genotype_id_1 siteid_1</span></span>
+<span><span class="co">#&gt; 2       1        1 genotype_id_2 siteid_1</span></span>
+<span><span class="co">#&gt; 3       0        0 genotype_id_3 siteid_1</span></span></code></pre></div>
 </div>
 </div>
 <div class="section level2">
@@ -327,9 +325,9 @@
 <span><span class="va">final_soil_gen</span><span class="op">&lt;-</span><span class="fu"><a href="https://rdrr.io/r/base/merge.html" class="external-link">merge</a></span><span class="op">(</span><span class="va">abemus_genomics</span>,<span class="va">cut_data_soil</span>, by<span class="op">=</span><span class="st">"siteid"</span><span class="op">)</span></span>
 <span><span class="fu"><a href="https://rdrr.io/r/utils/head.html" class="external-link">head</a></span><span class="op">(</span><span class="va">final_soil_gen</span><span class="op">[</span><span class="fu"><a href="https://rdrr.io/r/base/c.html" class="external-link">c</a></span><span class="op">(</span><span class="fl">1</span><span class="op">:</span><span class="fl">3</span><span class="op">)</span>,<span class="fu"><a href="https://rdrr.io/r/base/c.html" class="external-link">c</a></span><span class="op">(</span><span class="fl">1</span>,<span class="fl">5</span>,<span class="fl">100</span>,<span class="fl">102</span><span class="op">)</span><span class="op">]</span><span class="op">)</span></span>
 <span><span class="co">#&gt;     siteid trait_4 trait_99   genotype_id</span></span>
-<span><span class="co">#&gt; 1 siteid_1       0        1 genotype_id_1</span></span>
+<span><span class="co">#&gt; 1 siteid_1       2        1 genotype_id_1</span></span>
 <span><span class="co">#&gt; 2 siteid_1       2        2 genotype_id_2</span></span>
-<span><span class="co">#&gt; 3 siteid_1       1        1 genotype_id_3</span></span></code></pre></div>
+<span><span class="co">#&gt; 3 siteid_1       2        0 genotype_id_3</span></span></code></pre></div>
 </div>
 <div class="section level2">
 <h2 id="simulating-phenomics">Simulating phenomics<a class="anchor" aria-label="anchor" href="#simulating-phenomics"></a>

diff --git a/docs/index.html b/docs/index.html
@@ -67,7 +67,23 @@
 
       </header><div class="row">
   <div class="contents col-md-9">
-This package simulates multi environmental trials respecting associations between variables.
+<div class="section level1">
+<div class="page-header"><h1 id="innovar">InnoVaR<a class="anchor" aria-label="anchor" href="#innovar"></a>
+</h1></div>
+<!-- badges: start --><p><img src="/Volumes/T7%20Touch/InnoVaR/badget/innovarbadget.png" width="240" height="276" align="right"><!-- badges: end --></p>
+<p>InnoVar is an R-package for</p>
+<div class="section level2">
+<h2 id="installation">Installation<a class="anchor" aria-label="anchor" href="#installation"></a>
+</h2>
+<p>You can install the development version from <a href="https://github.com/danilosarti/InnoVar" class="external-link">GitHub</a> with:</p>
+<div class="sourceCode" id="cb1"><pre class="downlit sourceCode r">
+<code class="sourceCode R"><span><span class="co"># install.packages("devtools")</span></span>
+<span><span class="fu">devtools</span><span class="fu">::</span><span class="fu"><a href="https://rdrr.io/pkg/remotes/man/install_github.html" class="external-link">install_github</a></span><span class="op">(</span><span class="st">"danilosarti/InnoVaR"</span><span class="op">)</span></span></code></pre></div>
+<p>You can then load the package with:</p>
+<div class="sourceCode" id="cb2"><pre class="downlit sourceCode r">
+<code class="sourceCode R"><span><span class="kw"><a href="https://rdrr.io/r/base/library.html" class="external-link">library</a></span><span class="op">(</span><span class="va">InnoVaR</span><span class="op">)</span></span></code></pre></div>
+</div>
+</div>
   </div>
 
   <div class="col-md-3 hidden-xs hidden-sm" id="pkgdown-sidebar">
